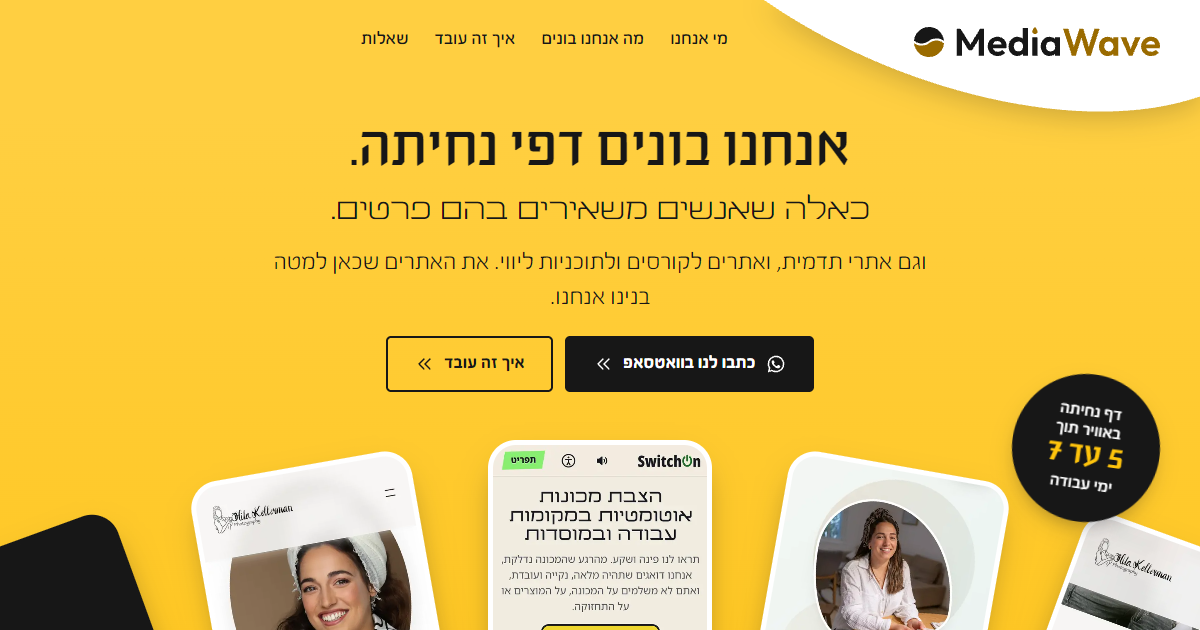
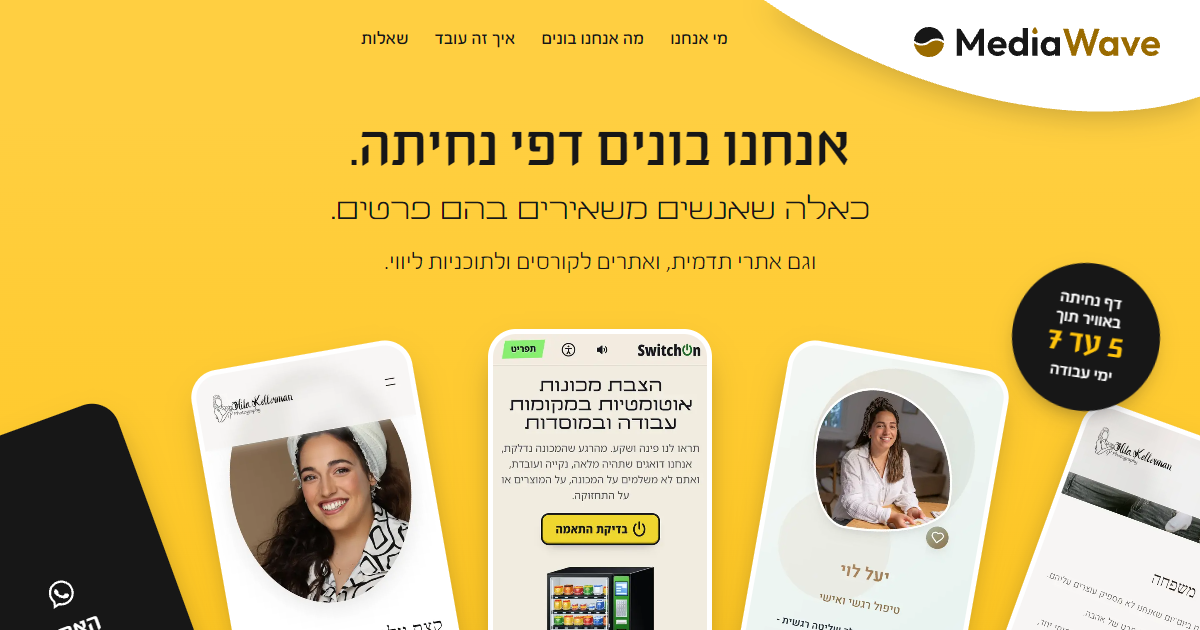
feat(sun): the work wheel right under the promise, the hero buttons below it (D250)
The mint and gold palette options are renders only; the site keeps its colours until Nati picks.

diff --git a/src/sun/sun.css b/src/sun/sun.css
@@ -201,9 +201,10 @@ html.menu-open .pin__blob { filter: none; }
 .hero { background: var(--sun-sweep); padding-block-start: 20px; overflow: clip; }
 .hero__text { text-align: center; display: grid; justify-items: center; gap: 18px; }
 .hero__lede { max-width: 31em; }
-.hero__actions { display: flex; flex-wrap: wrap; justify-content: center; gap: 12px; margin-block-start: 6px; }
+.hero__cta { display: grid; justify-items: center; gap: 14px; padding: 22px var(--gutter) 4px; background: var(--paper); text-align: center; }
+.hero__actions { display: flex; flex-wrap: wrap; justify-content: center; gap: 12px; }
 .hero__note { font-size: .9375rem; font-weight: 600; }
-.hero__stage { position: relative; margin-block-start: 34px; }
+.hero__stage { position: relative; margin-block-start: 46px; }
 .sticker { position: absolute; z-index: 3; top: -34px; inset-inline-start: max(10px, 50% - 560px); width: 112px; height: 112px; display: grid; place-items: center; text-align: center; border-radius: 50%; background: var(--blue); color: #fff; font-size: .8125rem; font-weight: 600; line-height: 1.2; transform: rotate(8deg); box-shadow: 0 10px 24px -10px rgba(23, 24, 28, .5); pointer-events: none; }
 .sticker b { display: inline-block; font: 700 1.5rem/1.1 var(--display); color: var(--sun); }
 @media (min-width: 900px) {

diff --git a/src/sun/Home.tsx b/src/sun/Home.tsx
@@ -41,15 +41,18 @@ function Hero() {
       <div className="wrap hero__text">
         <h1 id="hero-h" className="h1">{HERO.h1[0]} <span className="h1__rest">{HERO.h1[1]}</span></h1>
         <p className="lede hero__lede">{HERO.lede}</p>
+      </div>
+      {/* the work comes right under the promise (Nati, D250); the two actions stand below it, on the paper */}
+      <div className="hero__stage">
+        <p className="sticker"><span>{HERO.sticker[0]}<br />{HERO.sticker[1]}<br /><b>{HERO.sticker[2]}</b><br />{HERO.sticker[3]}</span></p>
+        <Wheel />
+      </div>
+      <div className="hero__cta">
         <div className="hero__actions">
           <WhatsAppButton placement="hero" />
           <a className="btn btn--line" href="#process" onClick={() => track('cta_click', { location: 'hero_process' })}><span>{HERO.second}</span><IconChevrons /></a>
         </div>
         <p className="hero__note">{HERO.note}</p>
-      </div>
-      <div className="hero__stage">
-        <p className="sticker"><span>{HERO.sticker[0]}<br />{HERO.sticker[1]}<br /><b>{HERO.sticker[2]}</b><br />{HERO.sticker[3]}</span></p>
-        <Wheel />
       </div>
     </section>
   )

diff --git a/DECISIONS.rtl.md b/DECISIONS.rtl.md
@@ -619,3 +619,9 @@
   - **העיגול.** מקטע יצירת הקשר כבר לא פס צהוב: הדף נשבר בעיגול צהוב גדול, רחב ממסך הטלפון ונחתך בצדדיו, ומאחוריו עיגול חיוור. בתוכו הכותרת (שורה קלה ושורה כבדה), שדות שהם קו בלבד, וכפתור לבן אחד. דרכי הקשר ירדו לשורה שקטה מתחתיו.
   - הוסרה בועת התצוגה המקדימה של ההודעה מתוך הטופס (D242), כדי שהעיגול יישאר נקי. הכפתור עדיין אומר בכנות "שליחה בוואטסאפ", וההודעה שנשלחת לא השתנתה.
   - נמדד על הבנייה המקומית: Lighthouse טלפון ביצועים 98, נגישות 100, שיטות 100, SEO 100, CLS 0, LCP 2.4 שניות; axe בלי הפרות בדף הבית, בדף שירות ובפרטיות; אין גלילה אופקית ב-320 עד 1440; אין יעדי מגע מתחת ל-44; הגלגל, הטופס והתפריט עובדים. לא נבדק על טלפון אמיתי.
+
+- **D250 · האתרים מיד אחרי ההבטחה, והפלטה פתוחה (נתי, 12.11):** "אין מה לכתוב את האתרים שכאן למטה בנינו אנחנו", "את כפתורי הוואטסאפ ואיך זה עובד תוריד יותר למטה ובמקומם תשים את האתרים לדוגמה", "תציע לי פלטת צבעים חדשה", "צבע אחר ללוגו, לא צבע קפה".
+  - המשפט השני של ה-hero הוסר. הגלגל עלה אל מתחת לשורת הפתיחה, ושני הכפתורים עם "עונים תוך 24 שעות" ירדו אל מתחתיו, על הלבן (`.hero__cta`). בדסקטופ בגובה 900 הכפתורים מתחת לקו המסך הראשון; "דברו איתנו" בפס העליון נשאר מעליו.
+  - **הפלטה עוד לא הוחלפה.** נתי קיבל שש פלטות בתמונות (A עד F, `design/audit/sun/palettes/`), ואז ביקש לראות את המנטה של האתר של יעל לוי עם אייקון בזהב. הצבע נמדד מהאתר שלה (עותק ארכיון): המנטה הוא `#E8F3F1`, לצד מרווה `#A8B5A0` וזהב חול `#C4956C`. נשלחו שלוש תמונות: M1 המנטה המדויקת עם אייקון זהב ושם כהה, M2 אותה מנטה עם חצי אייקון ו-Wave בזהב, M3 מנטה רוויה יותר (`#C9E8E2`) עם אייקון זהב. הזהב: `#E6C769` ו-`#C3942A`. מחכה לבחירה שלו.
+  - כדי שפלטה תהיה החלפה של ערכים בלבד, צבע העיגול החיוור שמאחורי טופס הקשר הוא עכשיו משתנה (`--sun-pale`).
+  - נמדד על הבנייה המקומית אחרי הזזת הכפתורים: Lighthouse טלפון ביצועים 98, נגישות 100, CLS 0, LCP 2.4 שניות; axe בלי הפרות.

diff --git a/.context/NEXT-SESSION-PROMPT-MORIAH.rtl.md b/.context/NEXT-SESSION-PROMPT-MORIAH.rtl.md
@@ -3,8 +3,8 @@
 ממשיכים את העבודה על האתר החדש של mediawave.co.il מאותה נקודה שבה נתי עצר ב-12.11.2026.
 
 ## קודם כול, קרא בסדר הזה
-1. `.context/HANDOFF.md`, רק החלק העליון ("the statement site", D237 עד D249).
-2. `DECISIONS.rtl.md`, שלוש עשרה ההחלטות האחרונות: D237 עד D249.
+1. `.context/HANDOFF.md`, רק החלק העליון ("the statement site", D237 עד D250).
+2. `DECISIONS.rtl.md`, ארבע עשרה ההחלטות האחרונות: D237 עד D250.
 3. `src/sun/content.ts`: כל הטקסטים של דף הבית, במקום אחד.
 
 ## איפה העבודה
@@ -52,6 +52,9 @@
 טופס יצירת הקשר יושב בתוך עיגול צהוב גדול ששובר את הדף (`src/sun/Home.tsx`, הבלוק "contact").
 שאלה פתוחה שחייבת תשובה לפני פרודקשן: האם הרישיון של נתי לפונטי EFT מתיר שימוש באתר. הוא נשאל פעמיים ועוד לא ענה.
 
+## פלטת הצבעים, מחכה לבחירה של נתי (D250)
+נתי לא אוהב את הצבע החום של הלוגו וביקש פלטה חדשה. הוא קיבל שש אפשרויות (A עד F), ואחר כך ביקש לראות את המנטה של האתר של יעל לוי עם אייקון בזהב, וקיבל שלוש (M1, M2, M3). התמונות ב-`design/audit/sun/palettes/`. האתר עצמו עדיין בצהוב. כשהוא בוחר, מחליפים את משתני הצבע בראש `src/sun/sun.css` ואת שאר המקומות שרשומים ב-HANDOFF תחת D250.
+
 ## החלטות שמחכות לנתי מסבב הביקורת (D242)
 - האם הבחירות בכלי הנגישות (טקסט גדול, ניגודיות, ללא אנימציות) צריכות להחזיק כשעוברים לדף אחר. היום כל טעינה מתחילה מחדש.
 - האם כתיבת הטקסט של דף נחיתה כלולה במחיר. היום כתוב "בתשלום נוסף", לפי השאלות והתקנון.
@@ -62,4 +65,4 @@
 ## איך לעבוד
 - כל שינוי: לבדוק ב-390 וב-1440, לוודא שאין גלילה אופקית ושאין שגיאות, ואז commit ודחיפה לענף כדי שהתצוגה המקדימה תתעדכן.
 - הדחיפה עובדת רק מהחשבון `mediawave-dev` (הפקודה בזיכרון הפרויקט, `mediawave-github-deploy`).
-- בסוף כל סבב: לעדכן את `.context/HANDOFF.md` ולהוסיף החלטה ממוספרת ל-`DECISIONS.rtl.md` (הבאה: D250).
+- בסוף כל סבב: לעדכן את `.context/HANDOFF.md` ולהוסיף החלטה ממוספרת ל-`DECISIONS.rtl.md` (הבאה: D251).

diff --git a/.context/HANDOFF.md b/.context/HANDOFF.md
@@ -55,6 +55,11 @@ Nati picked font option G "combined with the mediawave font", and asked for Libr
 - **Open: the EFT web licence.** Nati chose G without confirming that his EFT licence covers web embedding. It is on the preview by his instruction; production needs his confirmation first.
 - The earlier font board (options A to H, `design/audit/sun/fonts/`) is closed by this pick.
 
+## D250, the same day (night): the work right under the promise; the palette is open
+- Hero: the second sentence is gone; the wheel sits right under the opening lines and the two buttons with the reply note moved below it (`.hero__cta` in Home.tsx and sun.css).
+- **Palette: not changed yet, waiting for his pick.** He disliked the coffee-coloured logo and asked for a new palette. Sent: six options A to F, then, at his request, Yael Levy's mint measured from her site (`#E8F3F1`) with a gold icon: M1 (exact mint, gold icon, dark name), M2 (exact mint, half icon and "Wave" in gold), M3 (deeper mint `#C9E8E2`, gold icon). Renders and the scripts that made them (token overrides in the browser only): `design/audit/sun/palettes/`.
+- To apply a pick: the colour tokens at the top of `src/sun/sun.css` (`--sun`, `--sun-light`, `--sun-deep`, `--sun-pale`, `--sun-sweep`, `--ink`, `--ink-2`, `--cream`, `--blue`, `--blue-soft`, `--line`, `--logo-b`; a gold icon is `[data-part="mark"] { --logo-a; --logo-b }`), then `LOOK_GROUND` / `LOOK_LOGO` in vite.config.ts, `scripts/brand-palette.mjs` and the icons, the manifest theme colour, and `node scripts/generate-og-sun.mjs`. Check AA for `--ink-2` on the field.
+
 ## Waiting for Nati
 1. The direction itself, on the preview.
 2. The lines marked [קופי: נתי] in `src/sun/content.ts`.
